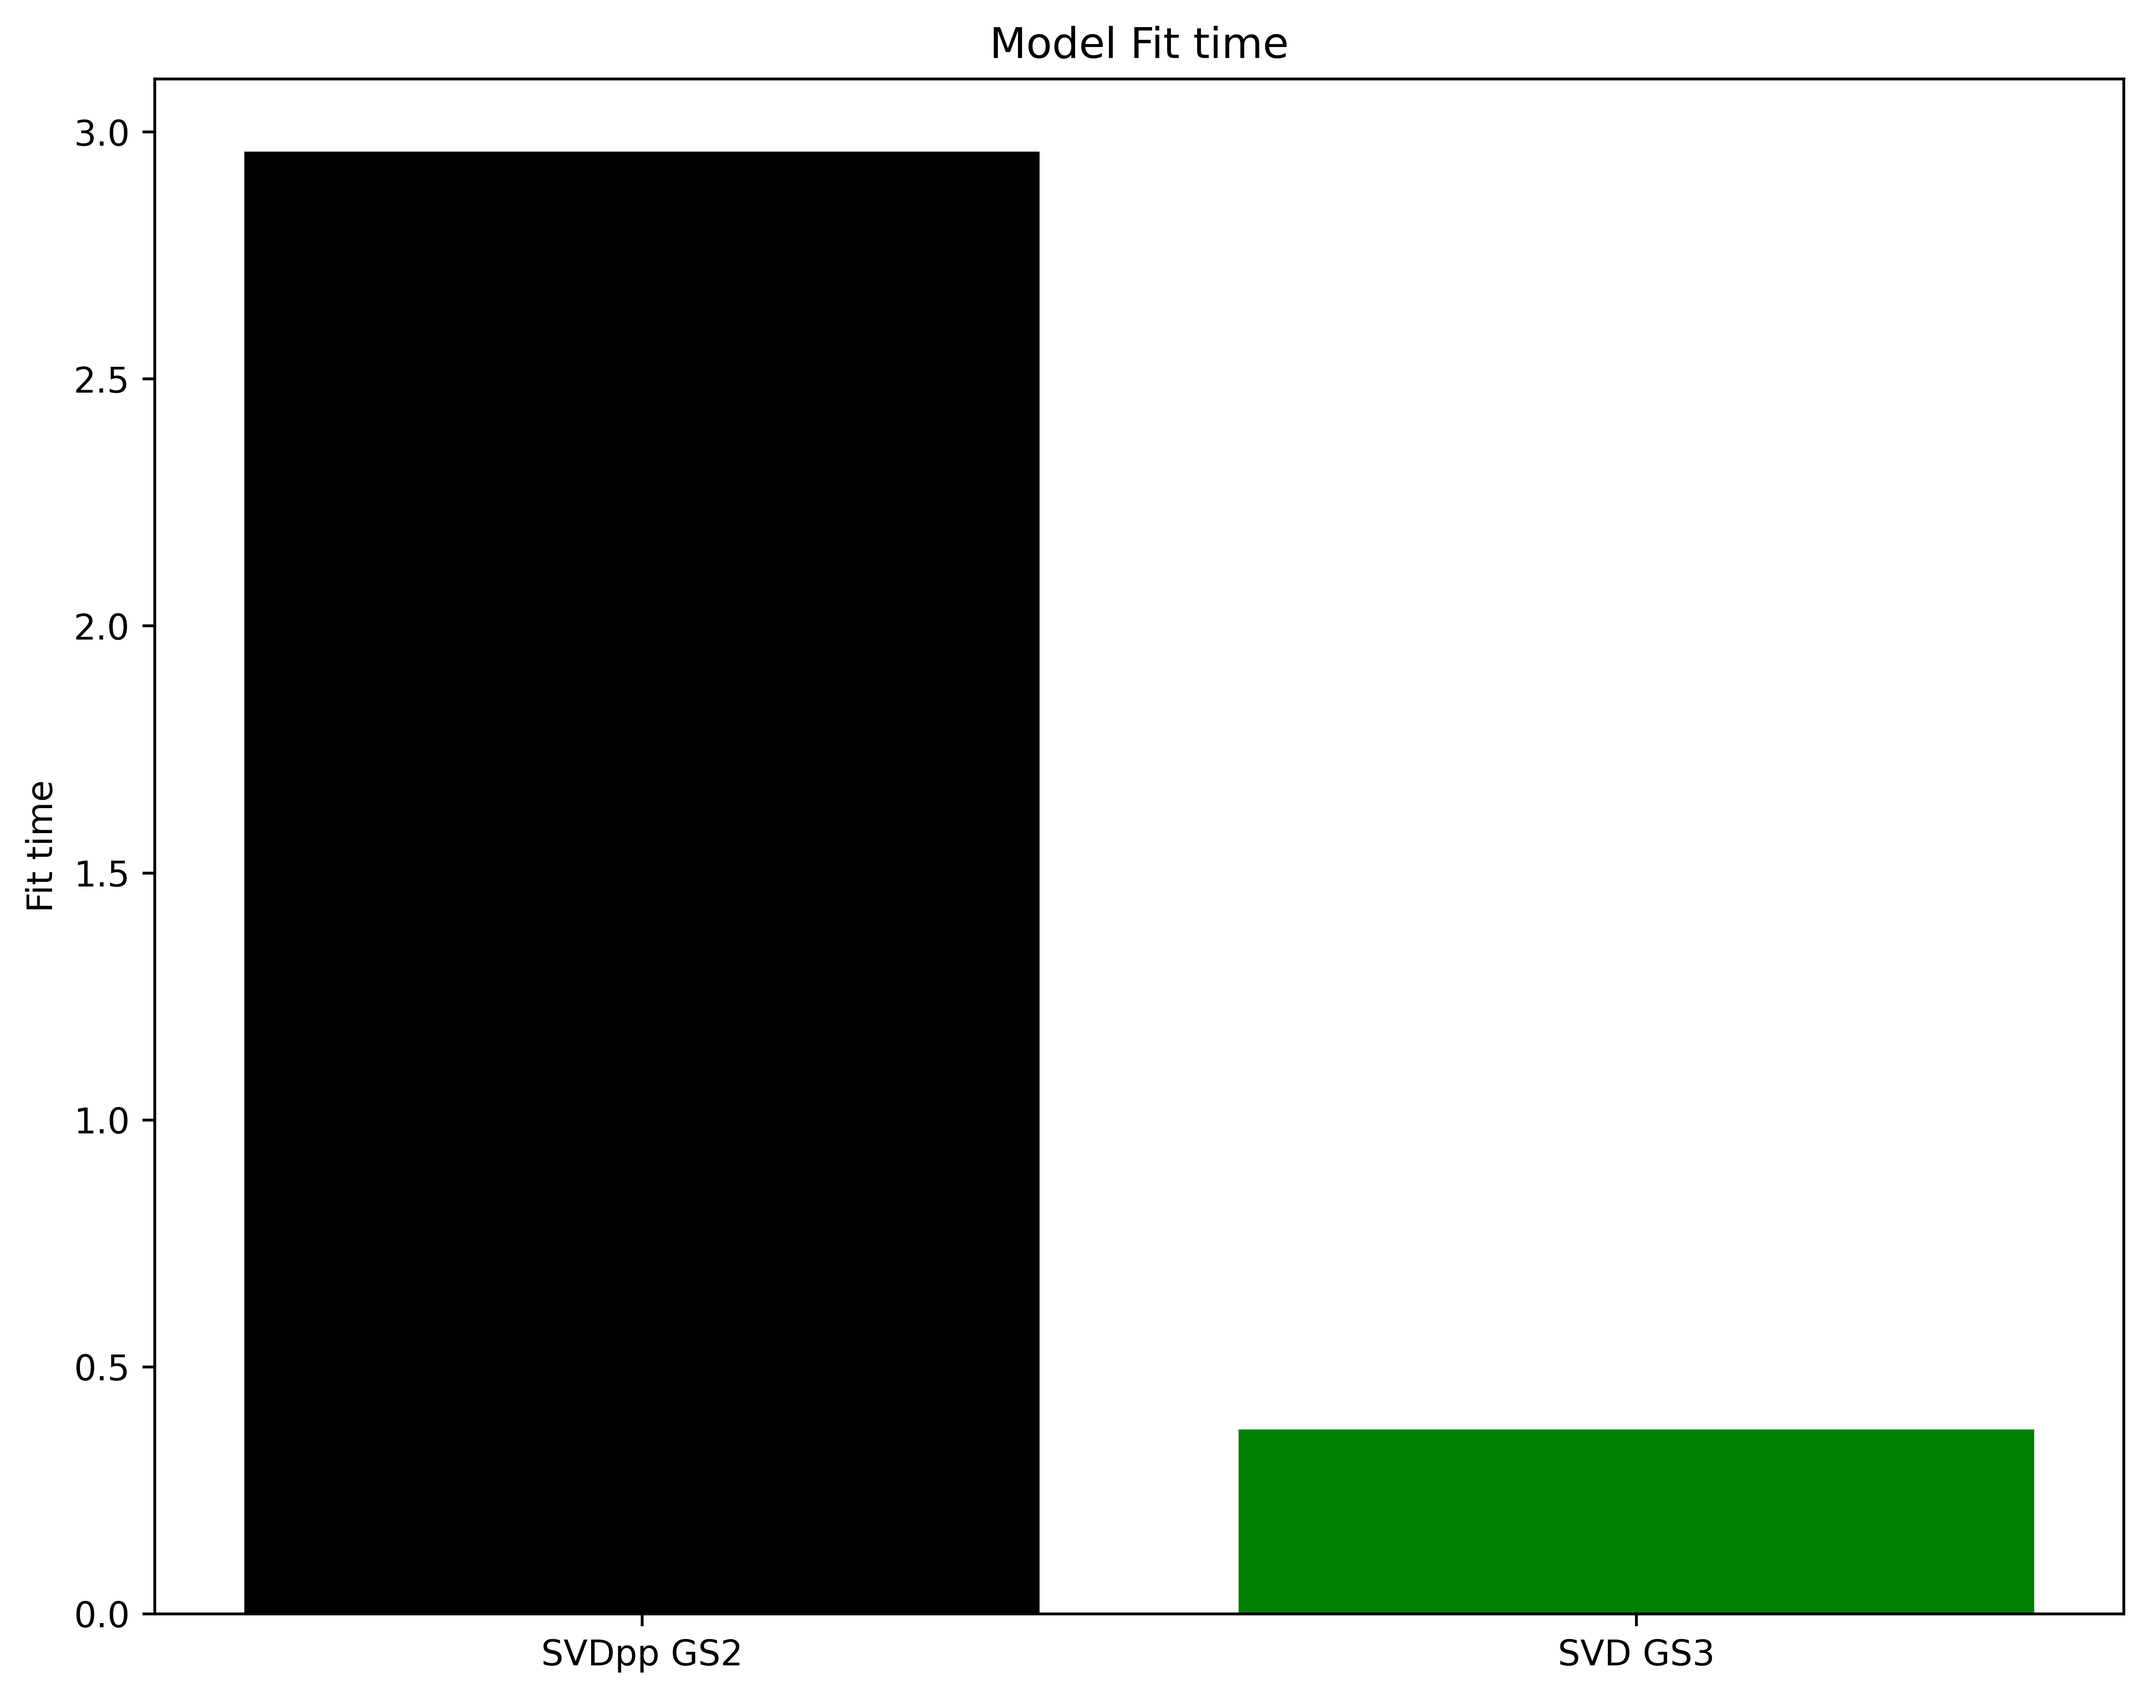
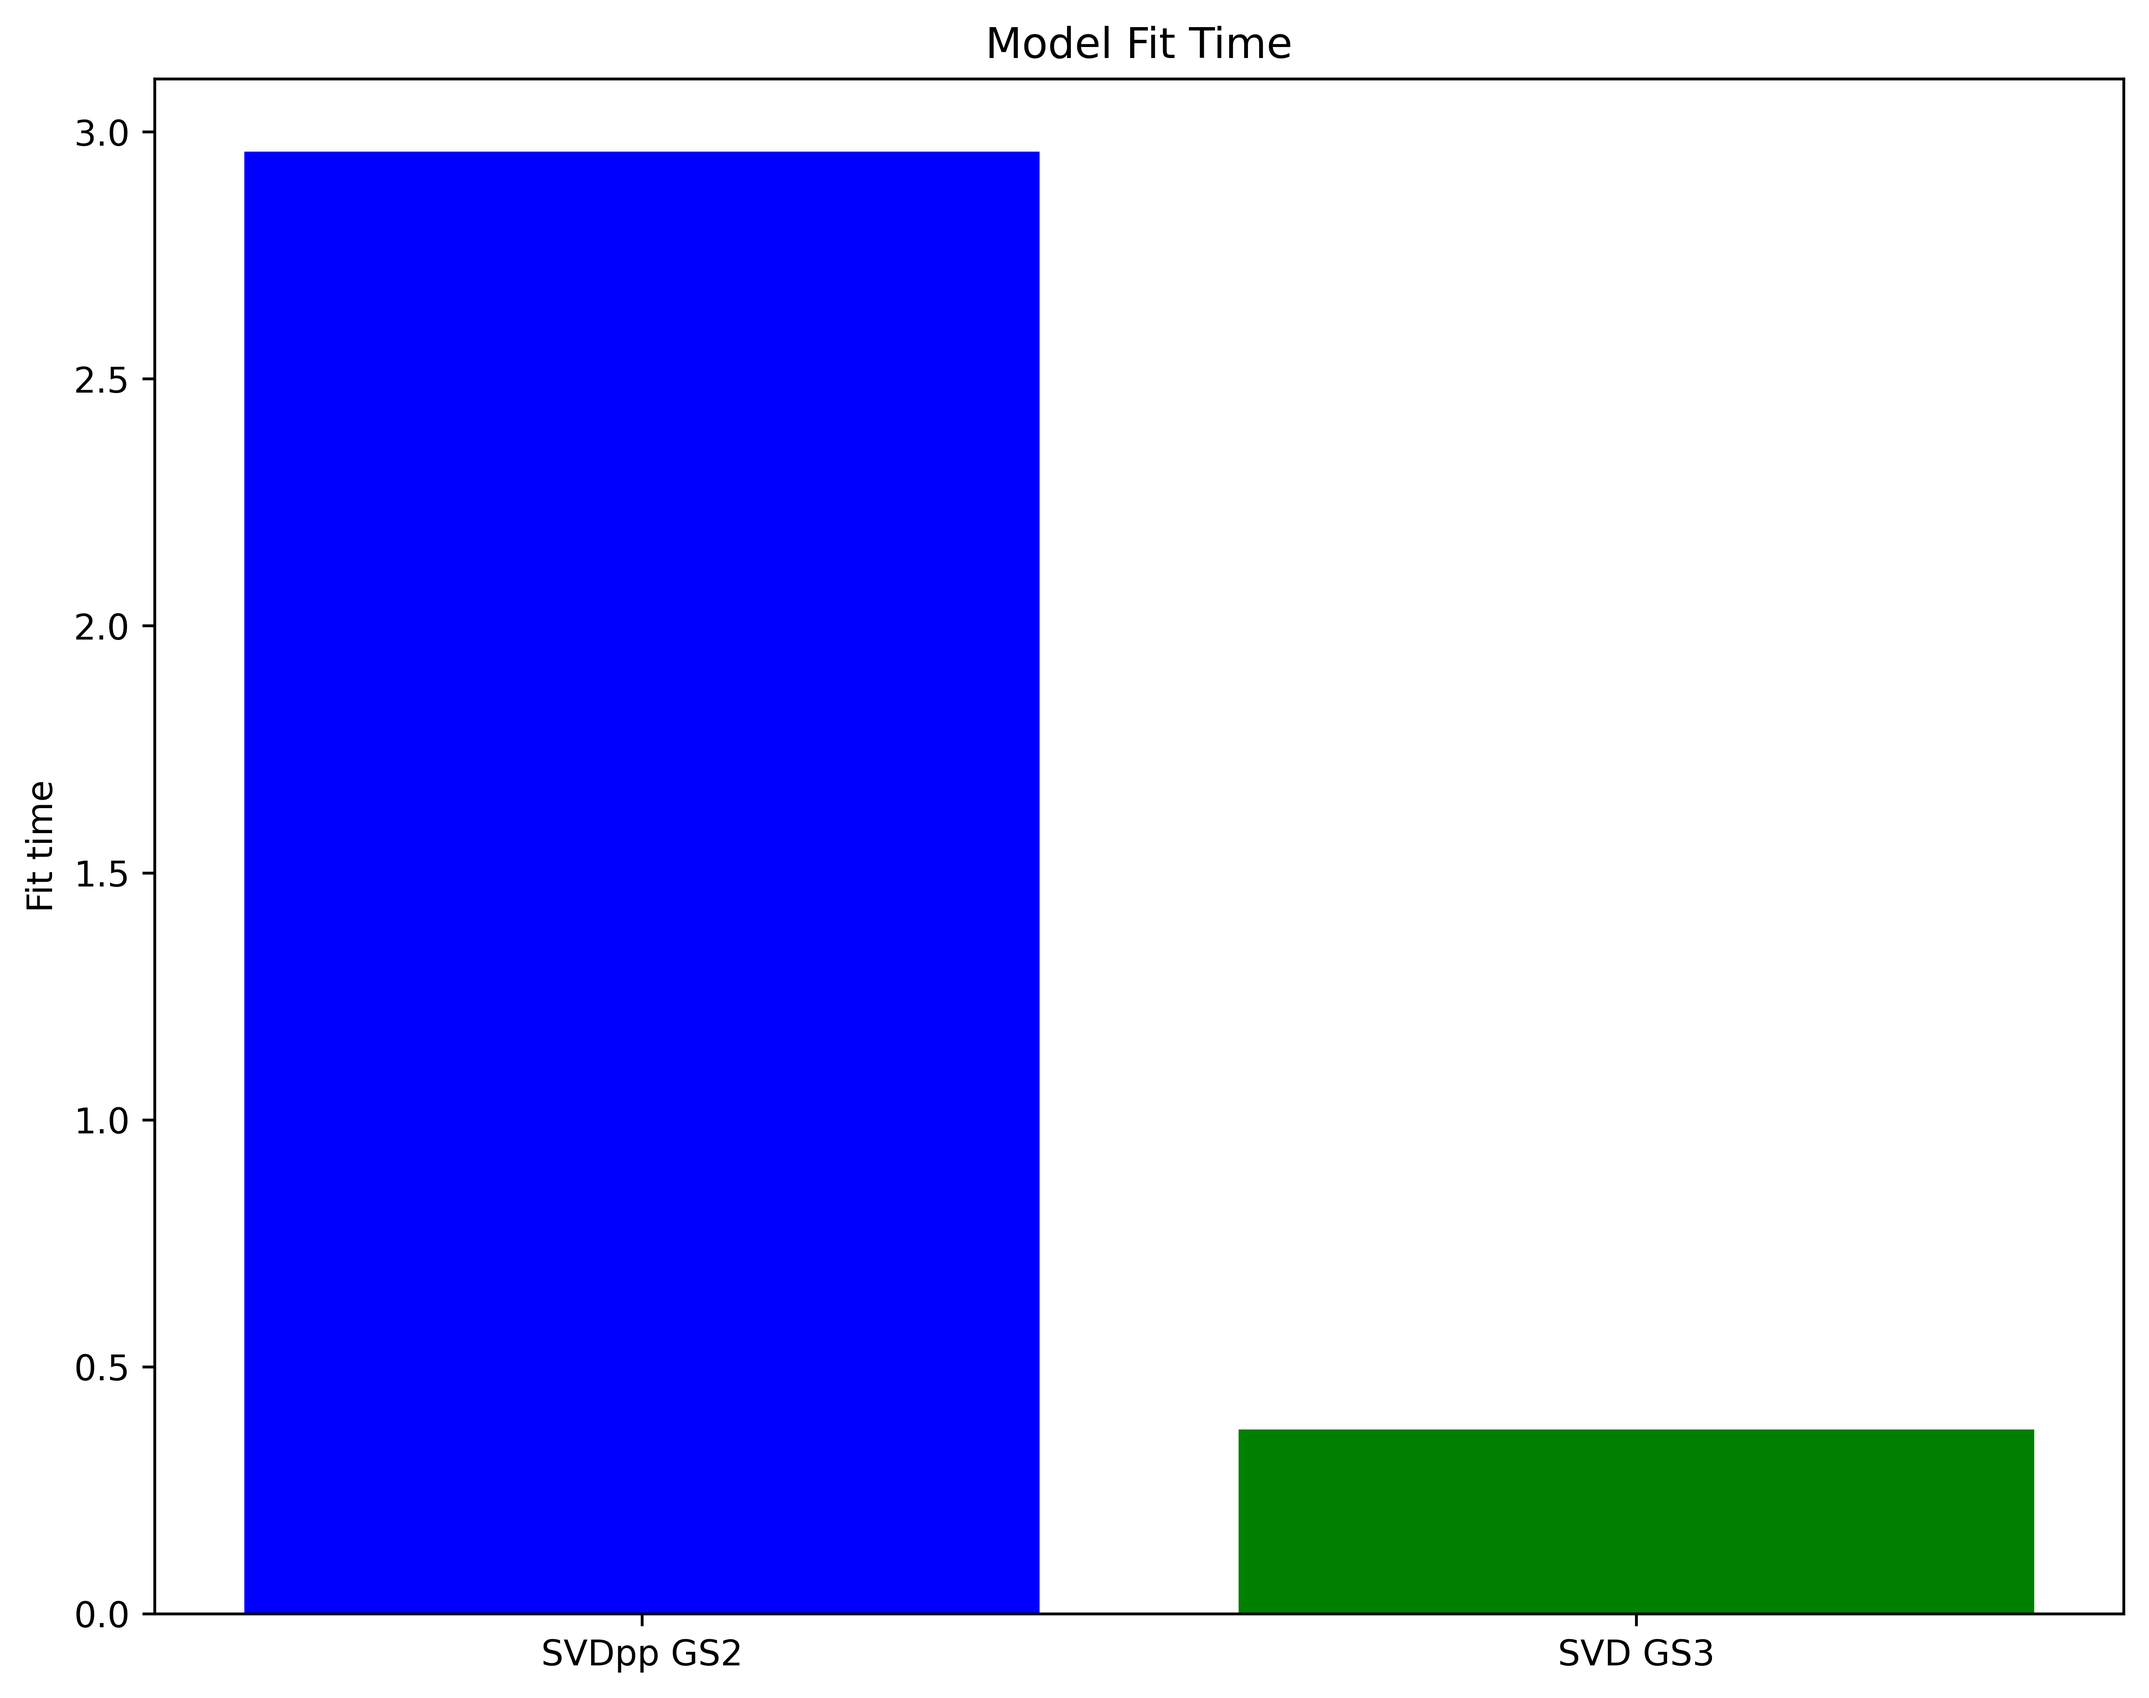
minor changes in markdown, graphs, added env file

diff --git a/README.md b/README.md
@@ -20,7 +20,6 @@ To build a recommendation system, I used a dataset containing over 140,000 revie
 To prepare the dataset, I used the pandas library in Python to perform initial exploration and cleaning. This included dropping any non-game items such as subscription services, DLCs and virtual currency. After that, i grouped items by name by deleting any necessary substrings, then loaded the necessary features, including `customer_id`, `game_title` and `rating`, into a new format for use with the surprise library, and performed a train-test split to prepare the data for modeling.
 
 You can find the dataset i used on kaggle [here](https://www.kaggle.com/datasets/cynthiarempel/amazon-us-customer-reviews-dataset?select=amazon_reviews_us_Digital_Video_Games_v1_00.tsv)
-***
 
 #### Columns
 - **marketplace**: 2 letter country code of the marketplace where the review was written.
@@ -58,19 +57,19 @@ While SVD++ models also demonstrated an improvement compared to the baseline mod
 
 
 # Conclusion
-The SVD model can predict ratings for games that a user has not played based on their past behavior and provide top recommendations accordingly; By analyzing the purchase and rating history of similar users, it can recommend the highest rated games to a new one. Kotaku, a gaming website that is not directly involved in game development, can benefit from implementing this system by offering personalized recommendations to its audience without any outside advertising influence. Kotaku's dedication to creating a positive experience for gamers and its desire to continually improve its site drives the decision to implement such a system, which also has the added benefit of increasing website traffic and engagement.
+The SVD model can make recommendations for games that a user has not played yet by using their past behavior and the rating history of similar users. It can predict the ratings of these games and recommend the ones that are most likely to be highly rated. Kotaku, a gaming website that is not directly involved in game development, can benefit from implementing this system by offering personalized recommendations to its audience without any outside advertising influence. Kotaku's dedication to creating a positive experience for gamers and its desire to continually improve its site drives the decision to implement such a system, which also has the added benefit of increasing website traffic and engagement.
 
 **limitations**<br>
-A major drawback of collaborative filtering is its reliance on the quantity of user feedback(reatings), i narrowed the dataset by only including users who had provided more than 5 reviews, this reduced the number of game titles by nearly 50%, but I was still left with 3000 games to use in the model. While this approach did lead to a lower RMSE, the recommendations for almost all users tended to be the same, this could be due to the sparsity in the data, when there are few ratings relative to the total number of items. In these cases, it can be difficult to identify similar users and make reliable recommendations. One way to address this issue is to increase the amount of data available. Another approach is to implement a content-based recommendation model, which makes recommendations based on the similarity of items rather than user behavior. This can lead to more diverse recommendations and may also help to solve the "cold start" problem, where a lack of data makes it difficult to generate reliable recommendations for new users. A content-based model does not rely on user feedback such as ratings, so it can provide recommendations even when data is limited.
+A major drawback of collaborative filtering is its reliance on the quantity of user feedback, i narrowed the dataset by only including users who had provided more than 5 reviews, this reduced the number of game titles by nearly 50%, but I was still left with 3000 games to use in the model. While this approach did lead to a lower RMSE, the recommendations for almost all users tended to be the same, this could be due to the sparsity in the data when there are few ratings relative to the total number of items. In these cases, it can be difficult to identify similar users and make reliable recommendations. One way to address this issue is to increase the amount of data available. Another approach is to implement a content-based recommendation model, which makes recommendations based on the similarity of items rather than user behavior. This can lead to more diverse recommendations and may also help to solve the "cold start" problem, where a lack of data makes it difficult to generate reliable recommendations for new users. A content-based model does not rely on user feedback such as ratings, so it can provide recommendations even when data is limited.
 
 **Next steps**<br>
-One potential next step to improve the recommendation system would be to implement a content-based approach using game genres, platform, and developer information as features for the model. This would allow the model to recommend similar games based on the characteristics of the games that a user has already played. Another option to consider is using NLP on the review text provided by customers to incorporate additional insights into the model. this could provide a more personalized recommendation experience for users
+One potential next step to improve the recommendation system would be to implement a content-based approach using game genres, platform, and developer information as features for the model. This would allow the model to recommend similar games based on the characteristics of the games that a user has already played. Another option to consider is using NLP on the review text provided by customers to incorporate additional insights into the model. this could provide a more personalized recommendation experience for users.
 
 ***
 
 ## Citations and Resourses
 
-* #### [Surprise Documentation](https://surprise.readthedocs.io/en/stable/dataset.html?highlight=build_full_trainset()#surprise.dataset.DatasetAutoFolds.build_full_trainset)
+* #### [Surprise Documentation](https://surprise.readthedocs.io/en/stable/)
 
 * #### [Daniel Burdeno - Kindle-eBook-Recommendations](https://github.com/danielburdeno/Kindle-eBook-Recommendations)
 
@@ -79,8 +78,6 @@ One potential next step to improve the recommendation system would be to impleme
 * #### [Neil Chandarana - SVD: Where Model Tuning Goes Wrong](https://towardsdatascience.com/svd-where-model-tuning-goes-wrong-61c269402919)
 
 * #### [Simon Funk jornal about SVD](https://sifter.org/~simon/journal/20061211.html)
-
-* #### [Charles Parr's response to datasets inside fig object](https://stackoverflow.com/questions/45286696/how-to-display-dataframe-next-to-plot-in-jupyter-notebook)
 
 * #### **Cover image** :Logo from [kotaku.com](https://kotaku.com/), background from [Nintendo](https://www.nintendo.com/)
 
